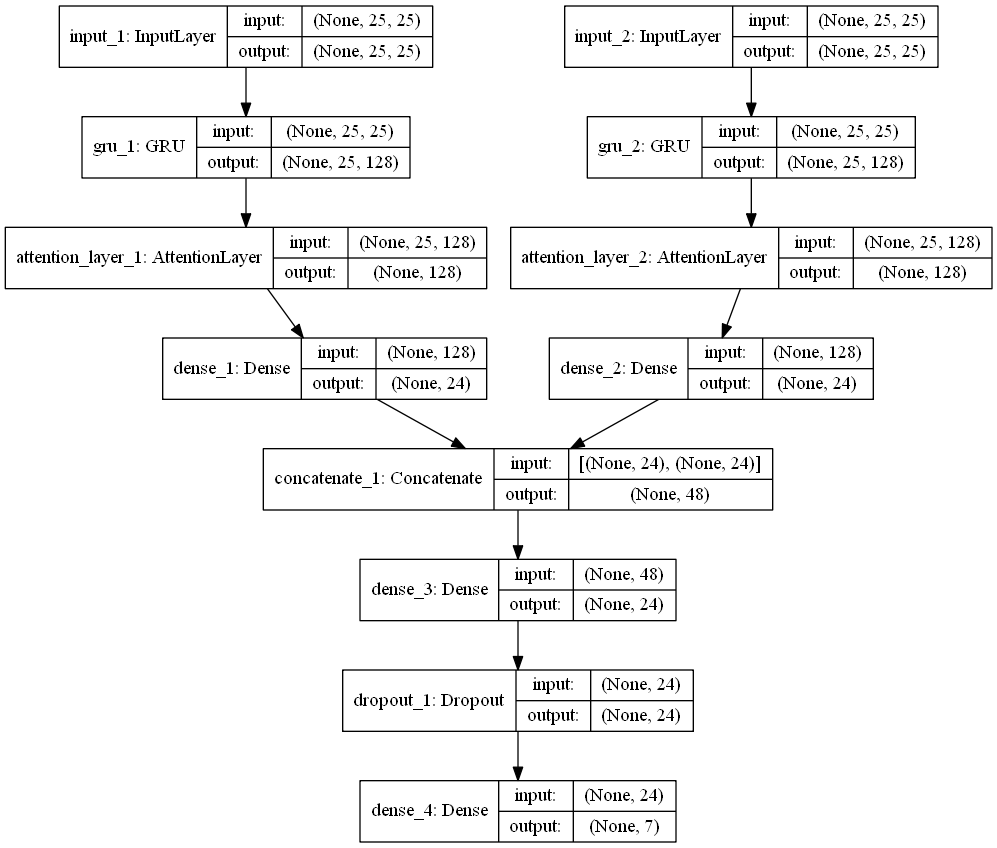
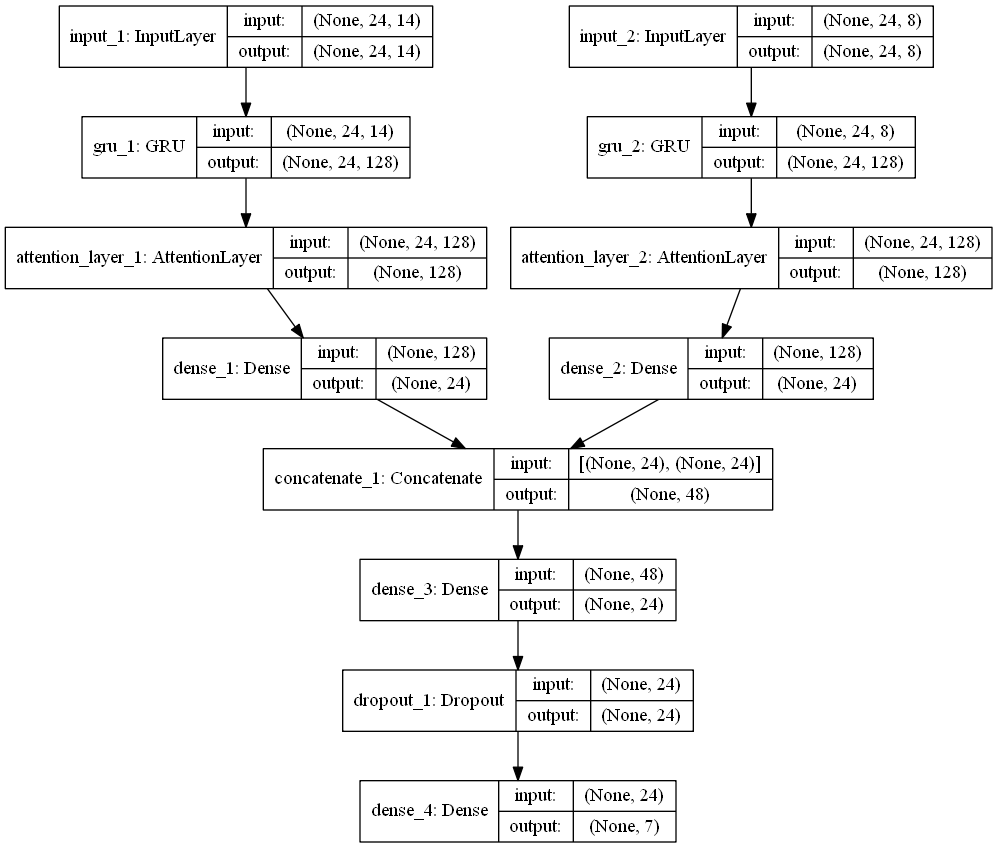
1-public.py 将time_steps、inputA_dim、inputB_dim抽象出来全局配置 如果inputA_dim\inputB_dim自动计算也是不错的

diff --git a/src/generateMnistImitationData.py b/src/generateMnistImitationData.py
@@ -1,9 +1,10 @@
 import numpy as np
 from time import time
 from src.readTxtData2Memory import transformTxtLine2ListObj
-from src.utils.utils import generateSpatialFeature, generateTempralAngleFeature, generateTempralLenFeature
+from src.utils.utils import generateSpatialFeature, generateTempralAngleFeature, generateTempralLenFeature, \
+    generateSpatialFeature2, generateTempralFeature2
 from src.utils.utils import fusion, fusionMean, fusionMax, fusionMin
-from src.public import actions, txtDir, regularization, anglization, frameNum
+from src.public import actions, txtDir, regularization, anglization, frameNum, inputA_dim, inputB_dim
 from src.refineAndSaveKeyPointData import write2Txt, write2Txt2
 
 # actions = ['falling1_8', 'falling2_0']
@@ -70,11 +71,14 @@ def makeDataSetFromTxt(filePath):
                 pre = x
             else:
                 # 同步取同一帧的空间分布特征和时间序列特征
-                sFeature = generateSpatialFeature(x, norminalize=regularization)
+                # sFeature = generateSpatialFeature(x, norminalize=regularization)
+                sFeature = generateSpatialFeature2(x, norminalize=regularization)
                 if anglization:
-                    tFeature = generateTempralAngleFeature(pre, x, norminalize=False)
+                    # tFeature = generateTempralAngleFeature(pre, x, norminalize=False)
+                    tFeature = generateTempralFeature2(pre, x, anglization=anglization)
                 else:
-                    tFeature = generateTempralLenFeature(pre, x, norminalize=False)
+                    # tFeature = generateTempralLenFeature(pre, x, norminalize=False)
+                    tFeature = generateTempralFeature2(pre, x, anglization=anglization)
                 # print(x)
                 # print(sFeature)
                 # print(tFeature)
@@ -121,15 +125,15 @@ def loadAllShuffledDataFromTxt(filePath):
             sampleSpatial = []
             sampleTemporal = []
             tmp = []
-            for i in range(0, 25 * 25):
+            for i in range(0, frameNum * inputA_dim):
                 tmp.append(lineArr[i])
-                if len(tmp) == 25:
+                if len(tmp) == inputA_dim:
                     sampleSpatial.append(np.array(tmp))
                     tmp = []
             tmp = []
-            for i in range(25 * 25, 25 * 25 * 2):
+            for i in range(frameNum * inputA_dim, frameNum * inputA_dim + frameNum * inputB_dim):
                 tmp.append(lineArr[i])
-                if len(tmp) == 25:
+                if len(tmp) == inputB_dim:
                     sampleTemporal.append(np.array(tmp))
                     tmp = []
             dataSet.append([sampleSpatial, sampleTemporal, label])
@@ -144,14 +148,14 @@ def spliceDataSet(test=False):
     global trainsize, dataSet, spatialN_test, temporalN_test, yn_test, spatialN, temporalN, yn, fileName
     if regularization:
         if anglization:
-            fileName = txtDir + '\\all-shuffled\\all-shuffled-angle-regularized-' + frameNum + 'result-data.txt'
+            fileName = txtDir + '\\all-shuffled\\all-shuffled-angle-regularized-' + str(frameNum) + '-result-data.txt'
         else:
-            fileName = txtDir + '\\all-shuffled\\all-shuffled-len-regularized-' + frameNum + 'result-data.txt'
+            fileName = txtDir + '\\all-shuffled\\all-shuffled-len-regularized-' + str(frameNum) + '-result-data.txt'
     else:
         if anglization:
-            fileName = txtDir + '\\all-shuffled\\all-shuffled-angle-unregularized-' + frameNum + 'result-data.txt'
+            fileName = txtDir + '\\all-shuffled\\all-shuffled-angle-unregularized-' + str(frameNum) + '-result-data.txt'
         else:
-            fileName = txtDir + '\\all-shuffled\\all-shuffled-len-unregularized-' + frameNum + 'result-data.txt'
+            fileName = txtDir + '\\all-shuffled\\all-shuffled-len-unregularized-' + str(frameNum) + '-result-data.txt'
     dataSet = loadAllShuffledDataFromTxt(fileName)
     # todo:划分训练集、验证集与测试集
     trainsize = int(m * len(dataSet))
@@ -217,18 +221,18 @@ if __name__ == '__main__':
         print('归一化 spatial feature')
         if anglization:
             print('时序角度')
-            txtFile = action_type + '-angle-regularized-result-data.txt'
+            txtFile = action_type + '-angle-regularized-' + str(frameNum) + '-result-data.txt'
         else:
             print('时序距离')
-            txtFile = action_type + '-len-regularized-result-data.txt'
+            txtFile = action_type + '-len-regularized-' + str(frameNum) + '-result-data.txt'
     else:
         print('未采用归一化策略')
         if anglization:
             print('时序角度')
-            txtFile = action_type + '-angle-unregularized-result-data.txt'
+            txtFile = action_type + '-angle-unregularized-' + str(frameNum) + '-result-data.txt'
         else:
             print('时序距离')
-            txtFile = action_type + '-len-unregularized-result-data.txt'
+            txtFile = action_type + '-len-unregularized-' + str(frameNum) + '-result-data.txt'
     begin = time()
     allShuffledData = makeDataSetFromTxt(txtDir)
     # print(allShuffledData)  # 验证写入与读出的dataSet结构是否一致

diff --git a/src/netDesign03_01.py b/src/netDesign03_01.py
@@ -12,7 +12,9 @@ from src.generateMnistImitationData import makeDataSetFromTxt, spliceDataSet
 from src.keras.selflayers.AttentionLayer import AttentionLayer
 import os
 import keras.backend as K
-from src.public import txtDir, actions, model_filename, spatial_attention, temporal_attention
+from src.public import txtDir, actions, model_filename, spatial_attention, temporal_attention, frameNum, inputA_dim, \
+    inputB_dim, \
+    anglization
 from keras.callbacks import LearningRateScheduler, ModelCheckpoint, EarlyStopping
 from keras.callbacks import ReduceLROnPlateau
 
@@ -41,9 +43,6 @@ batch_size = 128  # 128  # 每次梯度更新的样本数
 # https://zhuanlan.zhihu.com/p/77609689
 
 
-time_steps = 25
-inputA_dim = 25
-inputB_dim = 25
 n_hidden = 128  # 128
 n_classes = 7  # 动作类别数
 
@@ -59,32 +58,32 @@ def train(x1_train, x2_train, y1_train, x1_vali, x2_vali, y1_vali):
     checkpoint_dir = 'checkpoints'
     # checkpoints = glob(os.path.join(checkpoint_dir, '*.h5'))
     # 定义两个分支
-    inputA = Input(shape=(time_steps, inputA_dim))
-    inputB = Input(shape=(time_steps, inputB_dim))
+    inputA = Input(shape=(frameNum, inputA_dim))
+    inputB = Input(shape=(frameNum, inputB_dim))
     # 空间注意力模块-空间关键点选择门
     # return_sequences:true返回所有中间隐藏值false返回最后一个隐藏值
-    # shape=(samples, time_steps, input_dim)
+    # shape=(samples, frameNum, input_dim)
     if spatial_attention:
         print('空间注意力机制')
-        x1 = GRU(n_hidden, batch_input_shape=(None, time_steps, inputA_dim), return_sequences=True,
+        x1 = GRU(n_hidden, batch_input_shape=(None, frameNum, inputA_dim), return_sequences=True,
                  unroll=True)(inputA)
         x1 = AttentionLayer()(x1)
         # x1 = Attention()(x1)
     else:
         print('未使用空间注意力机制')
-        x1 = GRU(n_hidden, batch_input_shape=(None, time_steps, inputA_dim), return_sequences=False,
+        x1 = GRU(n_hidden, batch_input_shape=(None, frameNum, inputA_dim), return_sequences=False,
                  unroll=True)(inputA)
     x1 = Dense(24, activation='tanh')(x1)
     spatialModal = Model(inputs=inputA, outputs=x1)
     # 时间注意力模块-时间关键帧选择门
     if temporal_attention:
         print('时间注意力机制')
-        x2 = GRU(n_hidden, batch_input_shape=(None, time_steps, inputB_dim), return_sequences=True,
+        x2 = GRU(n_hidden, batch_input_shape=(None, frameNum, inputB_dim), return_sequences=True,
                  unroll=True)(inputB)
         x2 = AttentionLayer()(x2)
     else:
         print('未使用时间注意力机制')
-        x2 = GRU(n_hidden, batch_input_shape=(None, time_steps, inputB_dim), return_sequences=False,
+        x2 = GRU(n_hidden, batch_input_shape=(None, frameNum, inputB_dim), return_sequences=False,
                  unroll=True)(inputB)
     x2 = Dense(24, activation='relu')(x2)
     temporalModal = Model(inputs=inputB, outputs=x2)
@@ -95,7 +94,7 @@ def train(x1_train, x2_train, y1_train, x1_vali, x2_vali, y1_vali):
     # combined = maximum([spatialModal.output, temporalModal.output])
     combined = concatenate([spatialModal.output, temporalModal.output])
     # combined = dot([spatialModal.output, spatialModal.output])
-    # z = GRU(n_hidden, batch_input_shape=(None, time_steps, input_dim), return_sequences=False, unroll=True)(combined)
+    # z = GRU(n_hidden, batch_input_shape=(None, frameNum, input_dim), return_sequences=False, unroll=True)(combined)
     z = Dense(24)(combined)
     z = Dropout(dropout_rate)(z)
     z = Dense(n_classes, activation='softmax')(z)

diff --git a/src/public.py b/src/public.py
@@ -1,6 +1,6 @@
 # 全局变量
 actions = ['boxing', 'handclapping', 'handwaving', 'jogging', 'running', 'walking', 'falling']
-txtDir = 'F:\\Program Files (x86)\\PycharmProjects\\HARPro-HumanActionRecognitionProject\\action'
+txtDir = 'F:\\Program Files (x86)\\PycharmProjects\\clone\\HARPro-HumanActionRecognitionProject\\action'
 action_type = 'falling'
 # model_filename = 'F:\\Program Files (x86)\\PycharmProjects\\HARPro-HumanActionRecognitionProject\\src\\model-file\\HAR.h5'
 model_filename = 'F:\\Program Files (x86)\\PycharmProjects\\clone\\HARPro-HumanActionRecognitionProject\\src\\checkpoints\\model_best.h5'
@@ -11,4 +11,12 @@ anglization = True  # 时序角度与否
 spatial_attention = True  # 空间注意力
 temporal_attention = True  # 时间注意力
 # 骨架序列长度
-frameNum = 25  # n_input time_step步长 TODO:可以做下对比实验啊
+frameNum = 24  # n_input time_step步长 TODO:可以做下对比实验啊
+# 时空特征维度
+inputA_dim = 14
+inputBA_dim = 8
+inputBL_dim = 7
+if anglization:
+    inputB_dim = inputBA_dim
+else:
+    inputB_dim = inputBL_dim

diff --git a/src/refineAndSaveKeyPointData.py b/src/refineAndSaveKeyPointData.py
@@ -1,7 +1,7 @@
 import os
 import json
 from time import *
-from src.public import txtDir
+from src.public import txtDir, frameNum, inputA_dim, inputB_dim, anglization
 
 # actions = ['boxing', 'handclapping', 'handwaving', 'jogging', 'running', 'walking', 'falling1_8', 'falling2_0']
 action_type = 'falling2_0'
@@ -206,19 +206,21 @@ def write2Txt(fileDir, fileName, x, y):
     fileObj.write(line)
     # fileObj.close()
 
+
 # 将shuffled dataSet持久化
 def write2Txt2(fileDir, fileName, x1, x2, y):
     if not os.path.exists(fileDir):
         os.mkdir(fileDir)
     fileObj = open(fileDir + '\\' + fileName, mode='a', encoding="utf-8")
     line = ''
-    for i in range(25):
-        for j in range(25):
+    for i in range(frameNum):
+        for j in range(inputA_dim):
             line += str(x1[i][j]) + ' '
-    for i in range(25):
-        for j in range(25):
+    for i in range(frameNum):
+        for j in range(inputB_dim):
             line += str(x2[i][j]) + ' '
     line += y + '\n'
+    # print(line)
     fileObj.write(line)
 
 

diff --git a/src/utils/utils.py b/src/utils/utils.py
@@ -463,7 +463,7 @@ def deltaLen(preKeyPointList, curKeyPointList, norminalize=False):
         curKeyPointArray = np.array([curJoints[i][0], curJoints[i][1]])
         EDistance = np.sqrt(np.sum(np.square(preKeyPointArray - curKeyPointArray)))
         tmp.append(round(float(EDistance), 3))
-    return tmp
+    return np.array(tmp)
 
 
 # 高宽比比值 (1, )
@@ -476,11 +476,11 @@ def Qt(preKeyPointList, curKeyPointList):
 # 时序特征:deltaAng+Qt 7+1 (8, )
 # deltaLen+Qt 6+1 (7, )
 # array([-14.581, -6.322, 0.261, -31.428, 41.15, 0.261, -6.256, 0.941])
-def generateTempralAngleFeature2(preKeyPointList, curKeyPointList, anglization):
+def generateTempralFeature2(preKeyPointList, curKeyPointList, anglization):
     if anglization:
         F4 = deltaAng(preKeyPointList, curKeyPointList)
     else:
-        F4 = deltaLen()
+        F4 = deltaLen(preKeyPointList, curKeyPointList, False)
     F5 = Qt(preKeyPointList, curKeyPointList)
-    print(np.append(F4, F5).shape)
+    # print(np.append(F4, F5).shape)
     return np.append(F4, F5)
